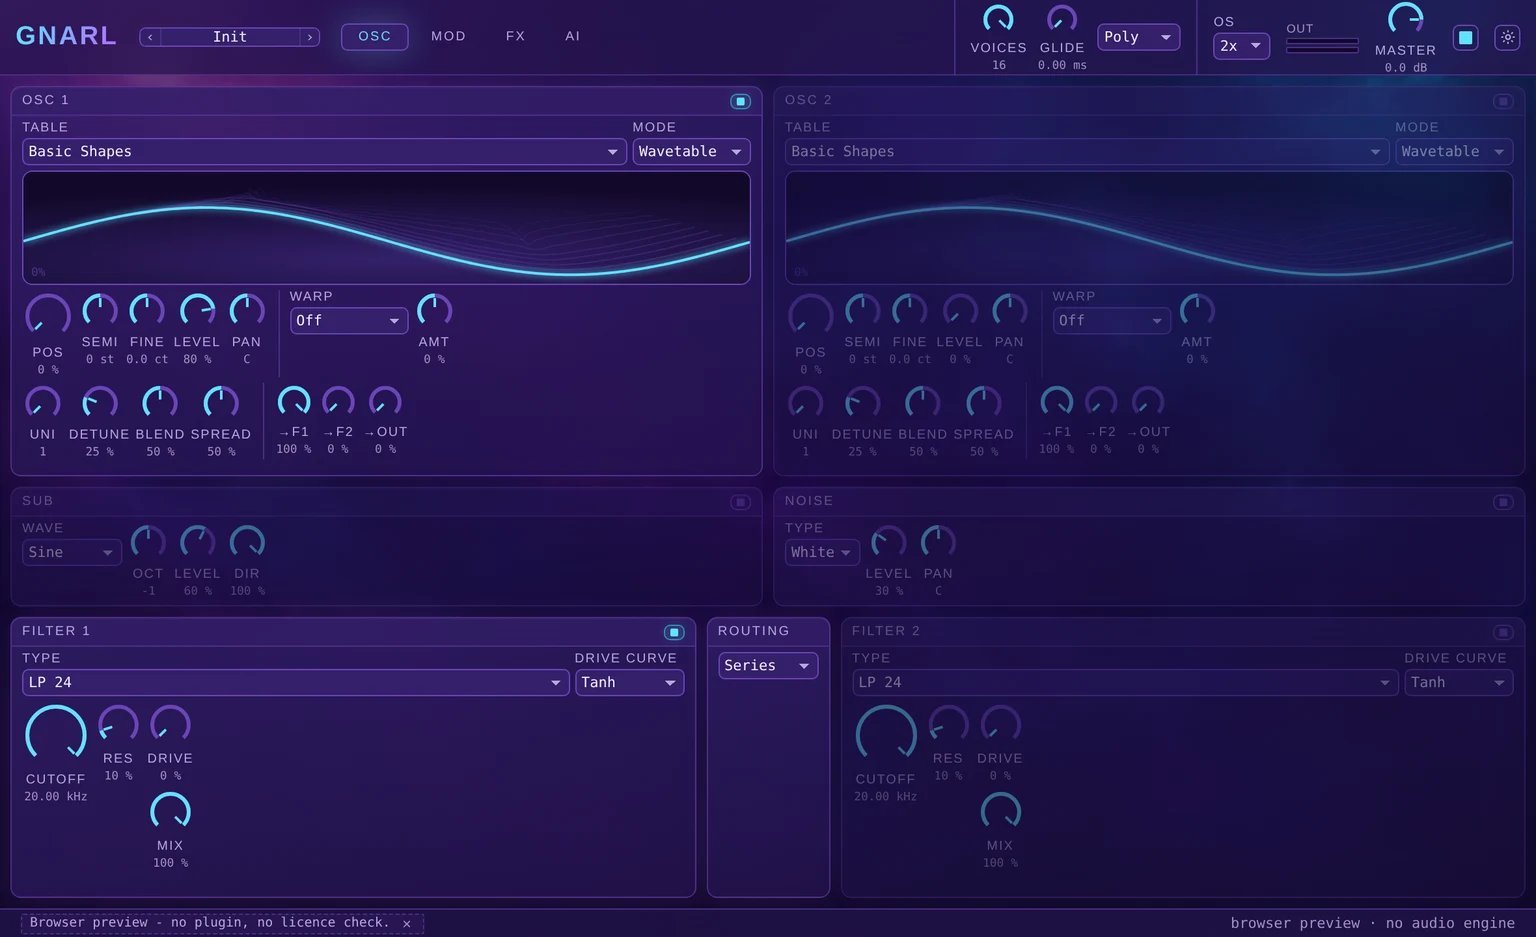
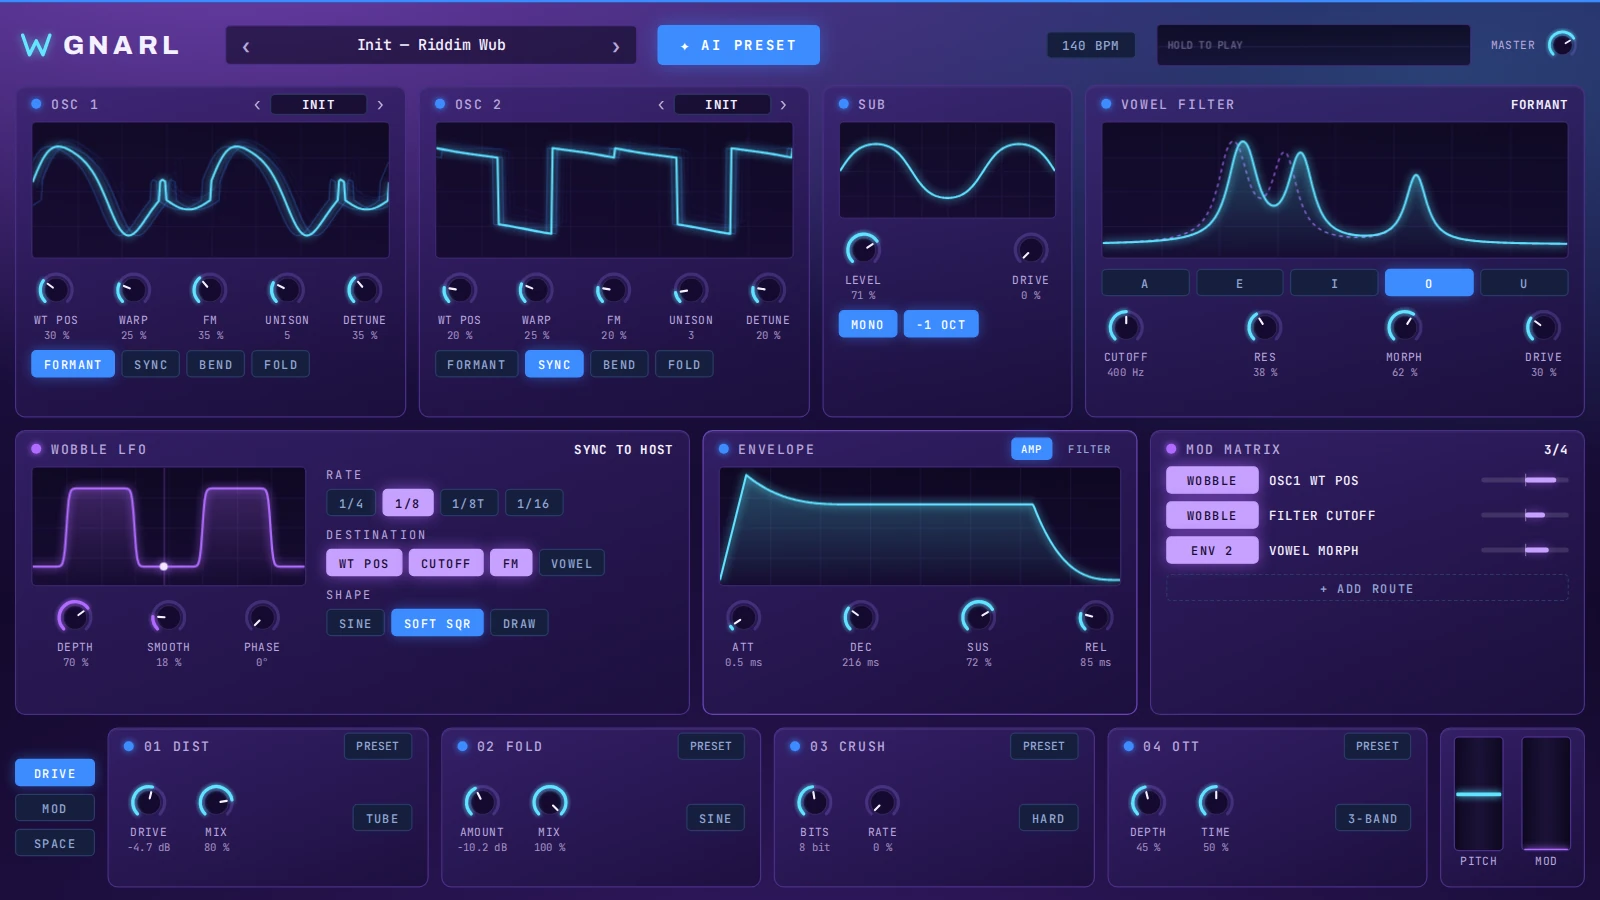
Site: show GNARL's new panel instead of the old editor
ui-osc.webp is now a screenshot of the panel (ui/) at 1280x720, 1.25x;
PANEL_ASPECT follows it (1280/720, was the old editor's 1180/720). The
width is unchanged, so the framing solve is too; checked with
tools/screenshot_site.mjs at both sizes.

Claude-Session: https://claude.ai/code/session_01KhSG4DgrSA5YZ9VaXLcseq

diff --git a/site/src/journey.ts b/site/src/journey.ts
@@ -79,8 +79,9 @@ export interface Journey {
   setAssemble(amount: number): void;
 }
 
-/** The plugin's own aspect ratio, so the last formation is its shape. */
-const PANEL_ASPECT = 1180 / 720;
+/** The plugin's own aspect ratio, so the last formation is its shape: GNARL's
+    panel (ui/), 1280 x 720. The old editor was 1180 x 720. */
+const PANEL_ASPECT = 1280 / 720;
 
 /** Orbits, wave, helix, driver, shell, panel. */
 const FORMS = 6;
@@ -1003,7 +1004,7 @@ export async function createJourney(canvas: HTMLCanvasElement): Promise<Journey>
 
   /*  ANISOTROPIC FILTERING, and it is the cheapest sharpness available here.
    *
-   *  The source is 1536x937 - far more detail than the screen asks for - and
+   *  The source is 1600x900 (the panel at 1.25x) - far more detail than the screen asks for - and
    *  the panel still looked soft, because a plane seen at ANY angle other
    *  than straight on samples its texture along a stretched footprint.
    *  Trilinear filtering answers that by dropping to a blurrier mip level;
